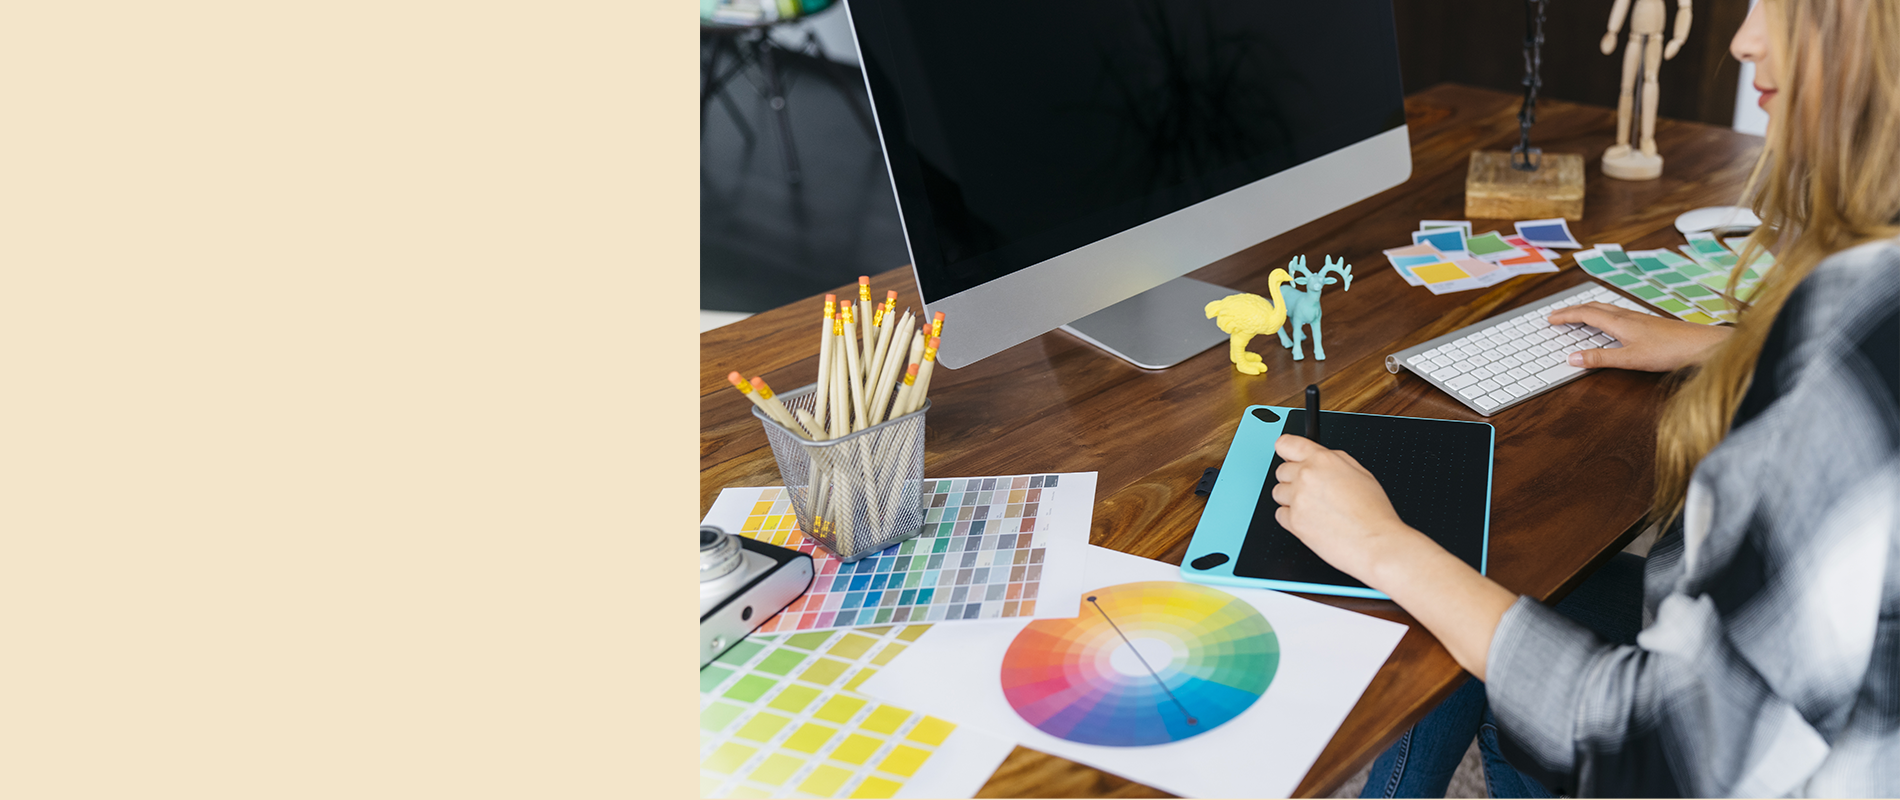
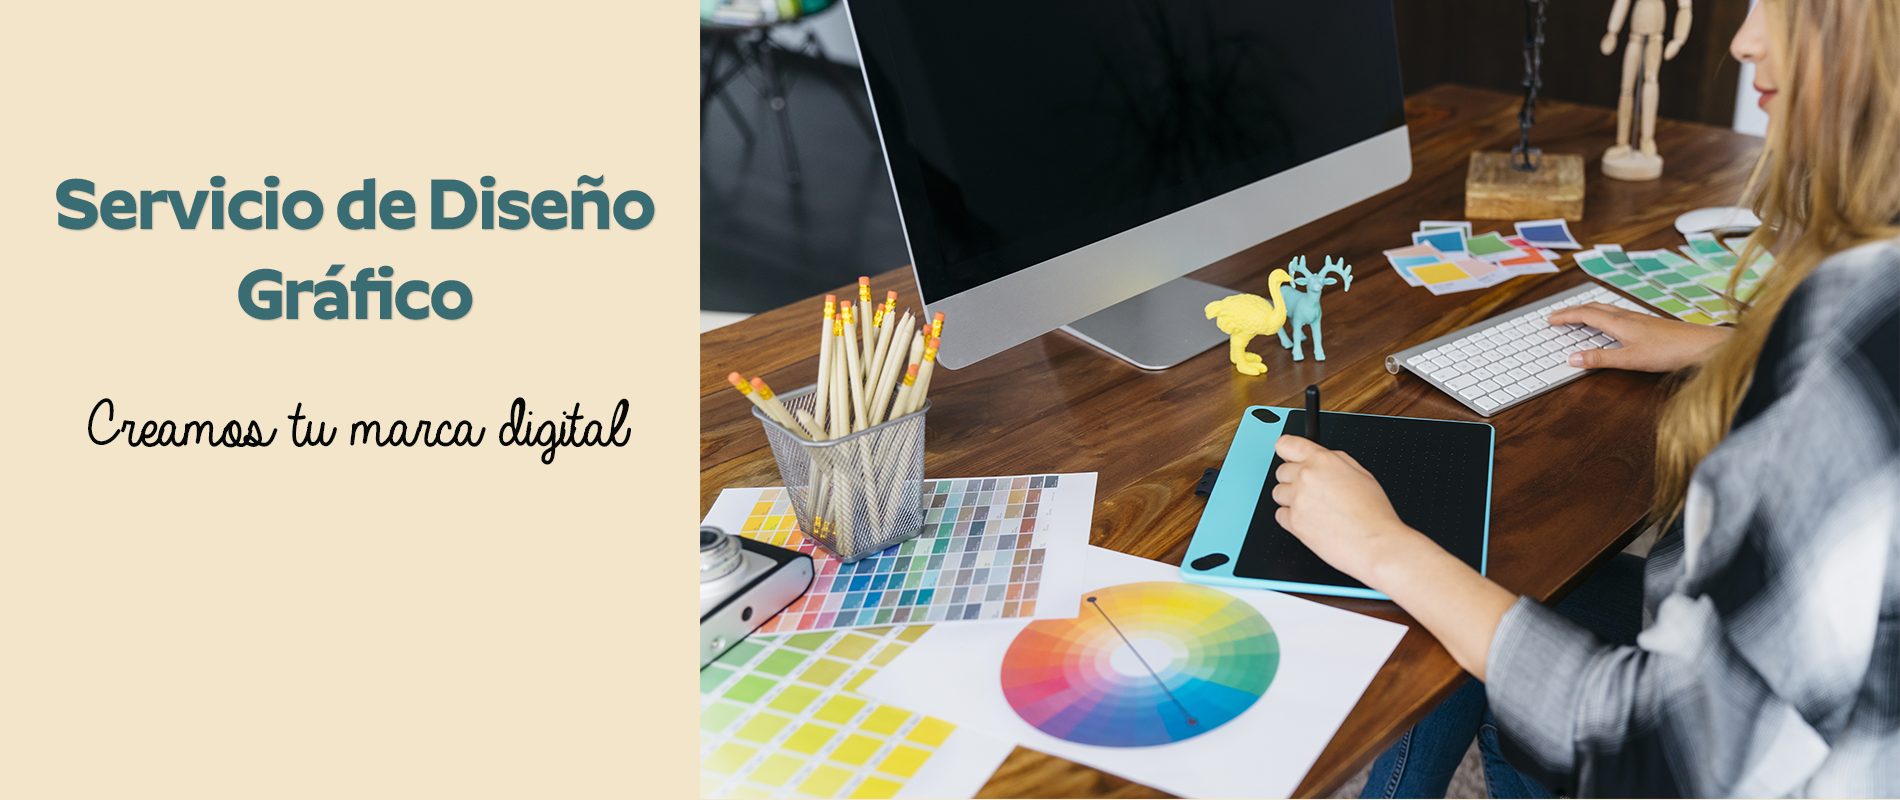
mejoras
se agregaron link de fuentes,
se cambio banner de fotografia, e imagen de dise;o

diff --git a/ecommerce.html b/ecommerce.html
@@ -10,6 +10,10 @@
   <link rel="stylesheet" href="https://cdn.jsdelivr.net/npm/bootstrap@4.5.3/dist/css/bootstrap.min.css" integrity="sha384-TX8t27EcRE3e/ihU7zmQxVncDAy5uIKz4rEkgIXeMed4M0jlfIDPvg6uqKI2xXr2" crossorigin="anonymous">
 	<link rel="shortcut icon" type="image/x-icon" href="multimedia/sisters.ico"><!--favicon-->
 	<link rel="stylesheet" type="text/css" href="style.css">
+  <link rel="preconnect" href="https://fonts.gstatic.com">
+  <link href="https://fonts.googleapis.com/css2?family=Nunito&display=swap" rel="stylesheet">
+  <link rel="preconnect" href="https://fonts.gstatic.com">
+  <link href="https://fonts.googleapis.com/css2?family=Nunito:wght@400;600&display=swap" rel="stylesheet">
 	<script src="https://kit.fontawesome.com/0e133a6255.js" crossorigin="anonymous"></script><!--link para colocar incons/fontawesome.com-->
 	<link
     rel="stylesheet"
@@ -101,7 +105,7 @@
       <div class="col-xs-12 col-lg-6 separador--interno">
         <ul class="ecommerce-list">
           <li class="title">
-            <h4>Mayor alcance de público con tu eCommerce</h4>
+            <h2>Mayor alcance de público con tu eCommerce</h2>
           </li>
           <li >
             <p class="contenido-lista">
@@ -109,7 +113,7 @@
             </p>
           </li>
           <li class="title">
-            <h4>Grandes beneficios a bajos costos</h4>
+            <h2>Grandes beneficios a bajos costos</h2>
           </li>
           <li>
             <p class="contenido-lista">
@@ -117,7 +121,7 @@
             </p>
           </li>
           <li class="title">
-            <h4>Optimización del proceso de compra</h4>
+            <h2>Optimización del proceso de compra</h2>
            </li>
            <li>
             <p class="contenido-lista">Nuestros eCommerce se destacan por su facilidad y rapidez en el proceso de búsqueda de productos, adicionalmente brinda seguridad y beneficios de cuotas sin interés a tus clientes, utilizando plataformas de pago integradas a tu sitio Web eCommerce
@@ -135,24 +139,24 @@
 
       <div class="col-xs-12 col-lg-4 separador--interno separador--interno--bottom">
         <i class="fas fa-laptop-code fa-4x d-flex justify-content-center"></i>
-        <h5 class="text-center">Mayor alcance de público</h5>
-        <p>
+        <h3 class="text-center">Mayor alcance de público</h3>
+        <p class="text--ecommerce">
           No existen limitaciones geográficas ni horarias para visualizar tus productos, lo cual te permite llegar a un público exponencial ofreciendo envíos a todo el País, mediante logísticas integradas.
         </p>
       </div>
 
       <div class="col-xs-12 col-lg-4 separador--interno separador--interno--bottom">
         <i class="fas fa-credit-card fa-4x d-flex justify-content-center"></i>
-        <h5 class="text-center">Pagos seguros y confiables</h5>
-        <p>
+        <h3 class="text-center">Pagos seguros y confiables</h3>
+        <p class="text--ecommerce">
           Integramos a tu sitio Web eCommerce diferentes plataformas de pago online, especialmente Mercadopago, Todo Pago, PayPal, entre otros. Ofrecé seguridad en las transacciones de tu sitio y facilidades de pago.</p>
       </div>
 
 
       <div class="col-xs-12 col-lg-4 separador--interno separador--interno--bottom">
         <i class="fas fa-users-cog fa-4x d-flex justify-content-center"></i>
-        <h5 class="text-center">Facil administracion</h5>
-        <p>
+        <h3 class="text-center">Facil administracion</h3>
+        <p class="text--ecommerce">
           Contamos con paneles de administración de tu Sitio eCommerce, intuitivos y fáciles de utilizar. Podrás cargar nuevos productos, controlar stock y precios, envíos y pagos, entre otras opciones.
         </p>
       </div>

diff --git a/grafico.html b/grafico.html
@@ -10,6 +10,10 @@
   <link rel="stylesheet" href="https://cdn.jsdelivr.net/npm/bootstrap@4.5.3/dist/css/bootstrap.min.css" integrity="sha384-TX8t27EcRE3e/ihU7zmQxVncDAy5uIKz4rEkgIXeMed4M0jlfIDPvg6uqKI2xXr2" crossorigin="anonymous">
 	<link rel="shortcut icon" type="image/x-icon" href="multimedia/sisters.ico"><!--favicon-->
 	<link rel="stylesheet" type="text/css" href="style.css">
+  <link rel="preconnect" href="https://fonts.gstatic.com">
+  <link href="https://fonts.googleapis.com/css2?family=Nunito&display=swap" rel="stylesheet">
+  <link rel="preconnect" href="https://fonts.gstatic.com">
+  <link href="https://fonts.googleapis.com/css2?family=Nunito:wght@400;600&display=swap" rel="stylesheet">
 	<script src="https://kit.fontawesome.com/0e133a6255.js" crossorigin="anonymous"></script><!--link para colocar incons/fontawesome.com-->
  	<link
     rel="stylesheet"
@@ -89,16 +93,16 @@
   </a>-->
   </div>
 	
-   <div class="container-fluid d-flex justify-content-center separador">
-    <div class="container row d-flex justify-content-center">
-      <h3 class="text-center">Servicio de Diseño Gráfico</h3>
+   <div class="container-fluid d-flex justify-content-center separador ">
+    <div class="container row d-flex justify-content-center"> 
+      <h2 class="text-center">Servicio de Diseño Gráfico</h2>
     </div>
   </div>
   <div class="container-fluid d-flex justify-content-center separador">
     <div class="container row align-items-center">
       <div class="col-xs-12 col-lg-6">
         <i class="fas fa-fingerprint fa-4x d-flex justify-content-center"></i>
-        <h5 class="text-center">Identidad de Marca</h5>
+        <h3 class="text-center">Identidad de Marca</h3>
         <ul class="text-center">
           <li>
             Logotipo
@@ -111,7 +115,7 @@
 
       <div class="col-xs-12 col-lg-6 separador--interno">
         <i class="fas fa-box-open fa-4x d-flex justify-content-center"></i>
-        <h5 class="text-center">Packaging</h5>
+        <h3 class="text-center">Packaging</h3>
         <ul class="text-center">
           <li>
             Diseñamos el empaque de tu marca
@@ -127,7 +131,7 @@
 
       <div class="col-xs-12 col-lg-6 separador--interno">
         <i class="fas fa-copy fa-4x d-flex justify-content-center"></i>
-        <h5 class="text-center">Papelería</h5>
+        <h3 class="text-center">Papelería</h3>
         <ul class="text-center">
           <li>
             Tarjetas
@@ -146,7 +150,7 @@
 
        <div class="col-xs-12 col-lg-6 separador--interno">
         <i class="fas fa-palette fa-4x d-flex justify-content-center"></i>
-        <h5 class="text-center">Diseño de redes sociales</h5>
+        <h3 class="text-center">Diseño de redes sociales</h3>
         <ul class="text-center">
           <li>
             Foto de perfil
@@ -165,7 +169,7 @@
   <div class=" portafolio-grafico container-fluid d-flex justify-content-center separador">
     <div class="container row align-items-center">
       <div class="col-12">
-        <h3>Nuestros Trabajos</h3>
+        <h2>Nuestros Trabajos</h2>
       </div>
       <div class="col-6 col-lg-4 grafico p-0">
         <img src="multimedia/grafico1.png">

diff --git a/fotografia.html b/fotografia.html
@@ -10,6 +10,10 @@
   <link rel="stylesheet" href="https://cdn.jsdelivr.net/npm/bootstrap@4.5.3/dist/css/bootstrap.min.css" integrity="sha384-TX8t27EcRE3e/ihU7zmQxVncDAy5uIKz4rEkgIXeMed4M0jlfIDPvg6uqKI2xXr2" crossorigin="anonymous">
 	<link rel="shortcut icon" type="image/x-icon" href="multimedia/sisters.ico"><!--favicon-->
 	<link rel="stylesheet" type="text/css" href="style.css">
+  <link rel="preconnect" href="https://fonts.gstatic.com">
+  <link rel="preconnect" href="https://fonts.gstatic.com">
+  <link href="https://fonts.googleapis.com/css2?family=Nunito:wght@400;600&display=swap" rel="stylesheet">
+  <link href="https://fonts.googleapis.com/css2?family=Nunito&display=swap" rel="stylesheet">
 	<script src="https://kit.fontawesome.com/0e133a6255.js" crossorigin="anonymous"></script><!--link para colocar incons/fontawesome.com-->
     <link
     rel="stylesheet"
@@ -87,7 +91,7 @@
    <div class="container-fluid d-flex justify-content-center separador">
     <div class="container row align-items-center">
       <div class="col-12">
-        <h3>Nuestros Trabajos</h3> 
+        <h2>Nuestros Trabajos</h2> 
         <p> Fotografia de productos para emprendimientos</p>
       </div>
       <div class="col-6 col-lg-4 foto-producto p-0">

diff --git a/scss/style.scss b/scss/style.scss
@@ -12,17 +12,18 @@ $layout-large: 1200px;// tama;o de media
   padding: 0;
   margin: 0;
   font-size: 15px;
-  font-family: sans-serif, Impact;
+  font-family: 'Nunito', sans-serif;
   line-height: 20px;
 }
 
 h2 {
-  font-size: 40px;
-  color: #20B2AA;
-  text-align: center;
-  margin-top: 50px;
-  margin-bottom: 50px;
-  text-decoration-line: underline;
+ 	font-size: 25px;
+  font-weight: bold;
+}
+
+h3 {
+  font-size: 20px;
+  font-weight: bold;
 }
 
 .separador {
@@ -86,11 +87,6 @@ h2 {
 
 /**Ecommerce**/
 
-h5 {
-  font-size: 20px;
-  font-weight: bold;
-}
-
 .text-ecommerce {
   background-color: $primario;
   color: $letra-secundaria;
@@ -111,8 +107,12 @@ ul .contenido-lista {
   text-align: justify;
 }
 
-.ecommerce-beneficios{
+.ecommerce-beneficios {
 	background-color:$terciario;
+}
+
+.text--ecommerce {
+	text-align: justify;
 }
 
 /**
@@ -135,6 +135,7 @@ ul .contenido-lista {
 .grafico img {
 	width: 100%;
 }
+
 
 /**fotografia**/
 

diff --git a/staff.html b/staff.html
@@ -10,6 +10,10 @@
   <link rel="stylesheet" href="https://cdn.jsdelivr.net/npm/bootstrap@4.5.3/dist/css/bootstrap.min.css" integrity="sha384-TX8t27EcRE3e/ihU7zmQxVncDAy5uIKz4rEkgIXeMed4M0jlfIDPvg6uqKI2xXr2" crossorigin="anonymous">
 	<link rel="shortcut icon" type="image/x-icon" href="multimedia/sisters.ico"><!--favicon-->
 	<link rel="stylesheet" type="text/css" href="style.css">
+  <link rel="preconnect" href="https://fonts.gstatic.com">
+  <link href="https://fonts.googleapis.com/css2?family=Nunito&display=swap" rel="stylesheet">
+  <link rel="preconnect" href="https://fonts.gstatic.com">
+  <link href="https://fonts.googleapis.com/css2?family=Nunito:wght@400;600&display=swap" rel="stylesheet">
 	<script src="https://kit.fontawesome.com/0e133a6255.js" crossorigin="anonymous"></script><!--link para colocar incons/fontawesome.com-->
  	<link
     rel="stylesheet"

diff --git a/style.css b/style.css
@@ -3,16 +3,16 @@
   padding: 0;
   margin: 0;
   font-size: 15px;
-  font-family: sans-serif, Impact;
+  font-family: 'Nunito', sans-serif;
   line-height: 20px; }
 
 h2 {
-  font-size: 40px;
-  color: #20B2AA;
-  text-align: center;
-  margin-top: 50px;
-  margin-bottom: 50px;
-  text-decoration-line: underline; }
+  font-size: 25px;
+  font-weight: bold; }
+
+h3 {
+  font-size: 20px;
+  font-weight: bold; }
 
 .separador {
   margin-top: 3rem !important; }
@@ -58,10 +58,6 @@ h2 {
   color: #FFFFFF; }
 
 /**Ecommerce**/
-h5 {
-  font-size: 20px;
-  font-weight: bold; }
-
 .text-ecommerce {
   background-color: #008080;
   color: #FFFFFF;
@@ -80,6 +76,9 @@ ul .contenido-lista {
 
 .ecommerce-beneficios {
   background-color: #F0F8FF; }
+
+.text--ecommerce {
+  text-align: justify; }
 
 /**
 .ecommerce-beneficios{

diff --git a/index.html b/index.html
@@ -13,7 +13,9 @@
     <link rel="stylesheet" type="text/css" href="style.css">
     <!--link fonts-->
     <link rel="preconnect" href="https://fonts.gstatic.com">
-    <link href="https://fonts.googleapis.com/css2?family=Hind+Madurai:wght@600&display=swap" rel="stylesheet">
+    <link href="https://fonts.googleapis.com/css2?family=Nunito&display=swap" rel="stylesheet">
+    <link rel="preconnect" href="https://fonts.gstatic.com">
+    <link href="https://fonts.googleapis.com/css2?family=Nunito:wght@400;600&display=swap" rel="stylesheet">
     <!--link para colocar incons/fontawesome.com-->
     <script src="https://kit.fontawesome.com/0e133a6255.js" crossorigin="anonymous"></script>
     <title>
